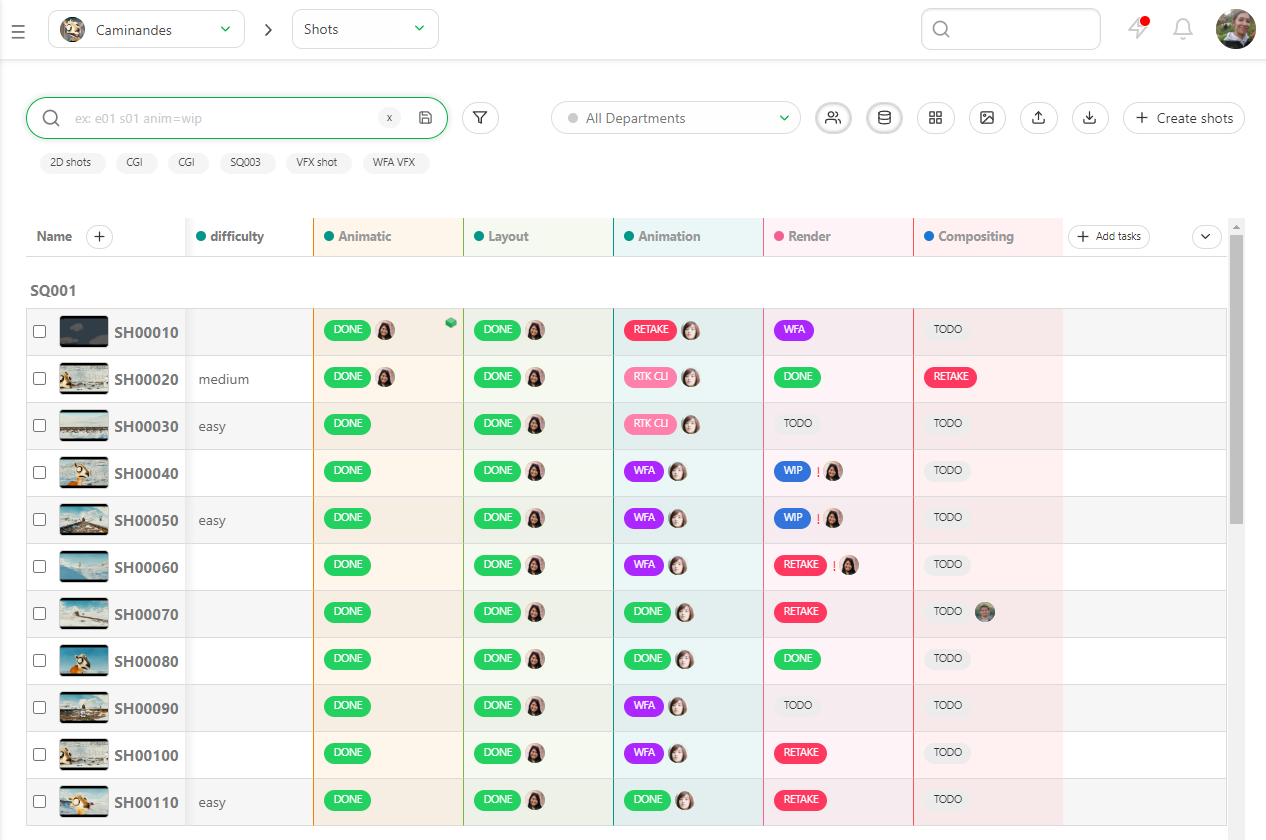
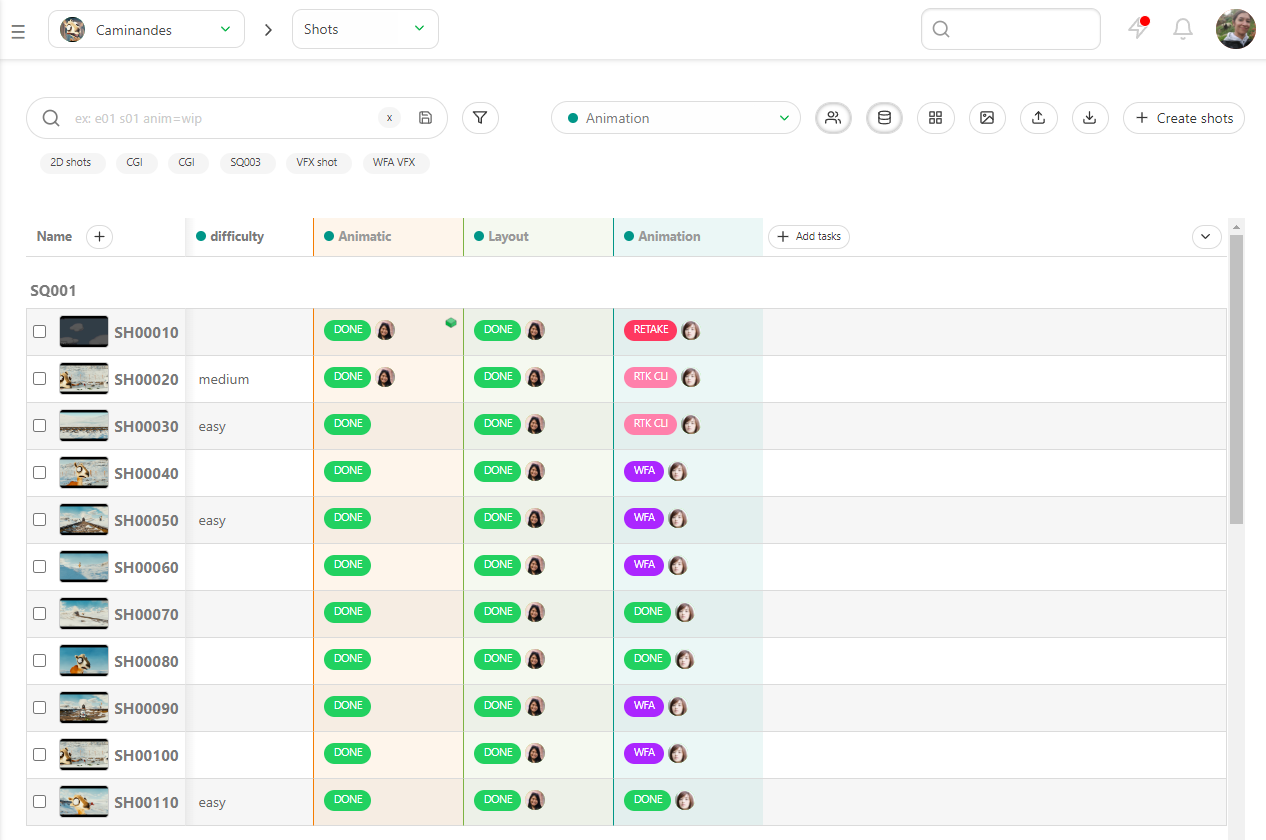
department fix

diff --git a/docs/department/README.md b/docs/department/README.md
@@ -2,6 +2,10 @@
 
 ## Create departments
 
+Departemnts are here to help the supervisors and artists to focus on their tasks.
+Once they are link to one or several departments, supervisors and artists will have direct access to their
+ filtered view. Deparments also act on the permissions.  
+
 You can create as many ** Departments** you need.
 
 On the main menu ![Main menu](../img/getting-started/main_button.png) select the 
